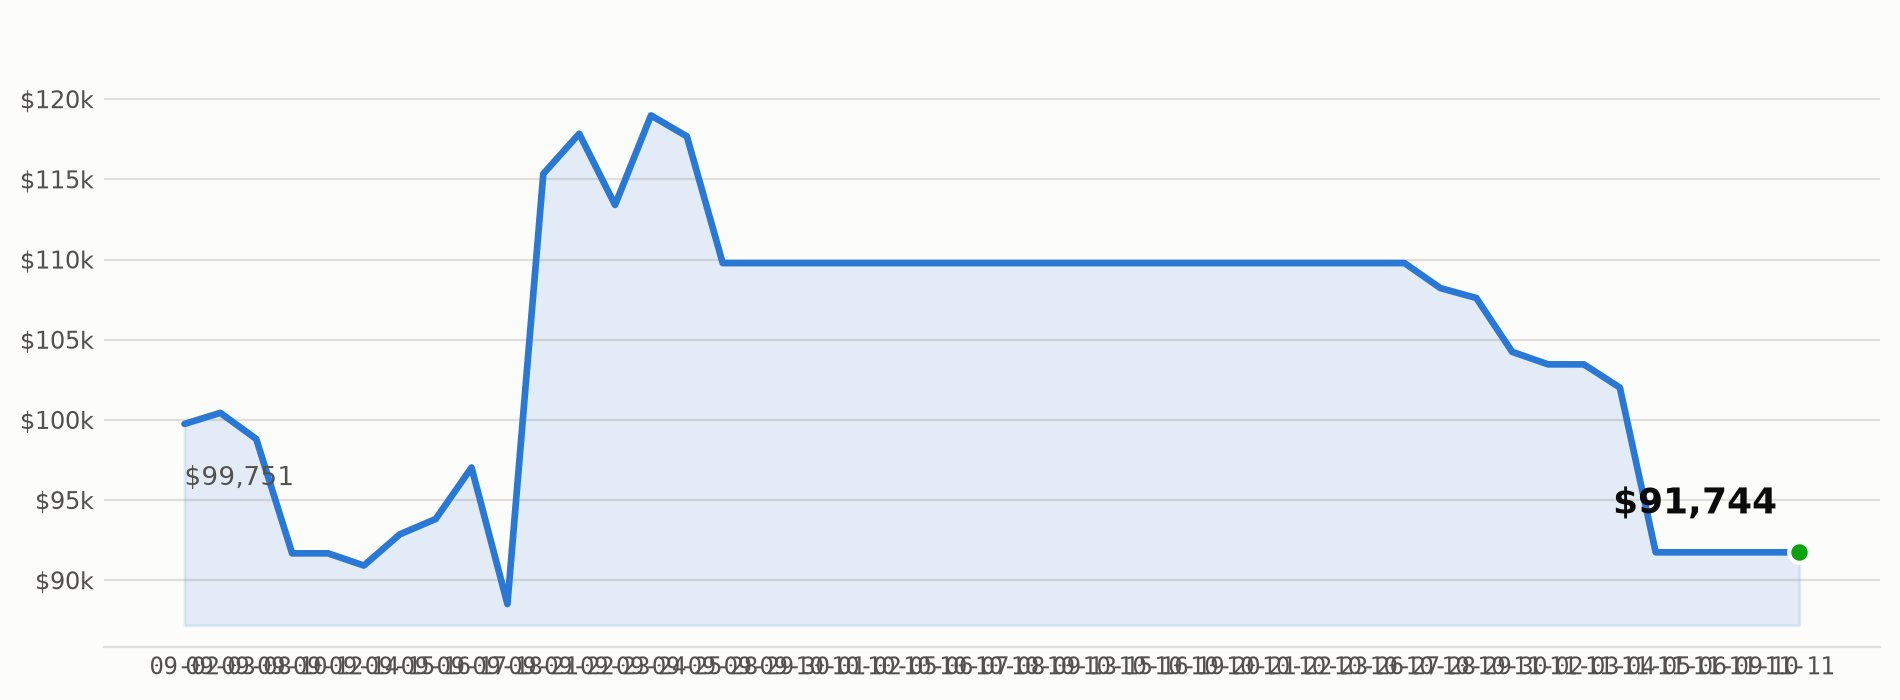
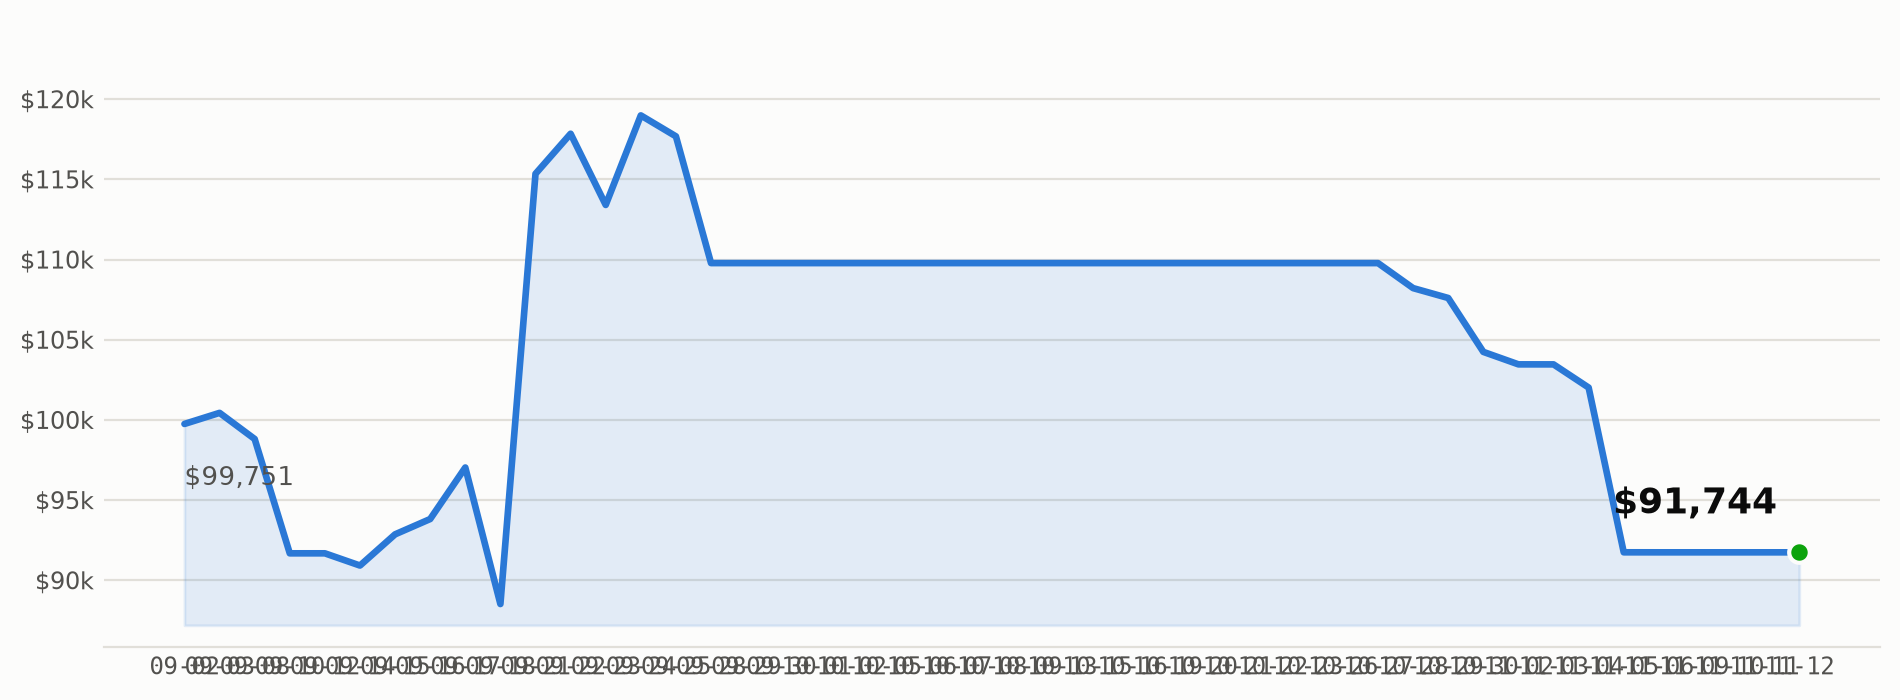
Daily dashboard update for 2026-11-12
Automated commit from scripts/daily_run.py after the market-close run.

diff --git a/README.md b/README.md
@@ -12,7 +12,7 @@ An autonomous AI trading agent for Alpaca's **Options Alpha** hackathon track.
 </p>
 
 <p align="center">
-  <img src="docs/equity_curve.png?v=2026-11-11-91744" alt="AlphaCa account equity over time, currently $91,744" width="800">
+  <img src="docs/equity_curve.png?v=2026-11-12-91744" alt="AlphaCa account equity over time, currently $91,744" width="800">
 </p>
 <!-- PNL_DASHBOARD_END -->
 
